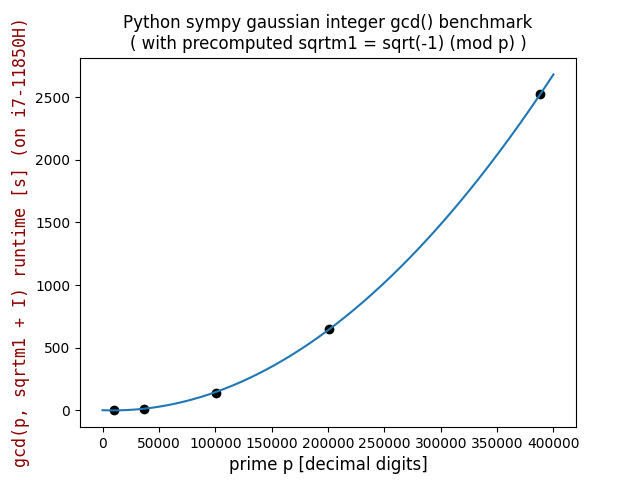
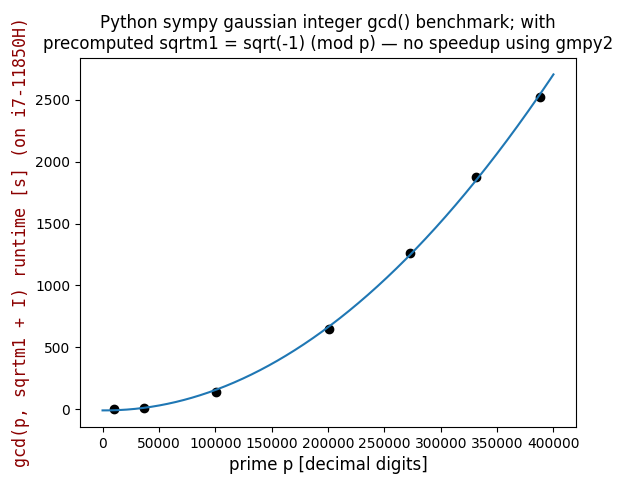
Add two new data points, improve title

diff --git a/sympy_gaussian_integer_gcd_benchmark.py b/sympy_gaussian_integer_gcd_benchmark.py
@@ -6,8 +6,8 @@ import matplotlib.pyplot as plt
 from math import pow as toPower
 import numpy as np
 data = pd.DataFrame({
-    "x": [10000, 36481, 100355, 200700, 388342],
-    "y": [0.7, 12.9, 139.5, 648.1, 2524.1]
+    "x": [10000, 36481, 100355, 200700, 272770, 330855, 388342],
+    "y": [0.7, 12.9, 139.5, 648.1, 1262.5, 1878.6, 2524.1]
 })
 
 Σx = 0
@@ -52,7 +52,7 @@ font = {'family': 'monospace',
         'size': 12,
         }
 
-plt.title('Python sympy gaussian integer gcd() benchmark\n( with precomputed sqrtm1 = sqrt(-1) (mod p) )', fontsize=12)
+plt.title('Python sympy gaussian integer gcd() benchmark; with\nprecomputed sqrtm1 = sqrt(-1) (mod p) — no speedup using gmpy2', fontsize=12)
 plt.ylabel('gcd(p, sqrtm1 + I) runtime [s] (on i7-11850H)', fontsize=12, fontdict=font)
 plt.xlabel('prime p [decimal digits]', fontsize=12)
 
